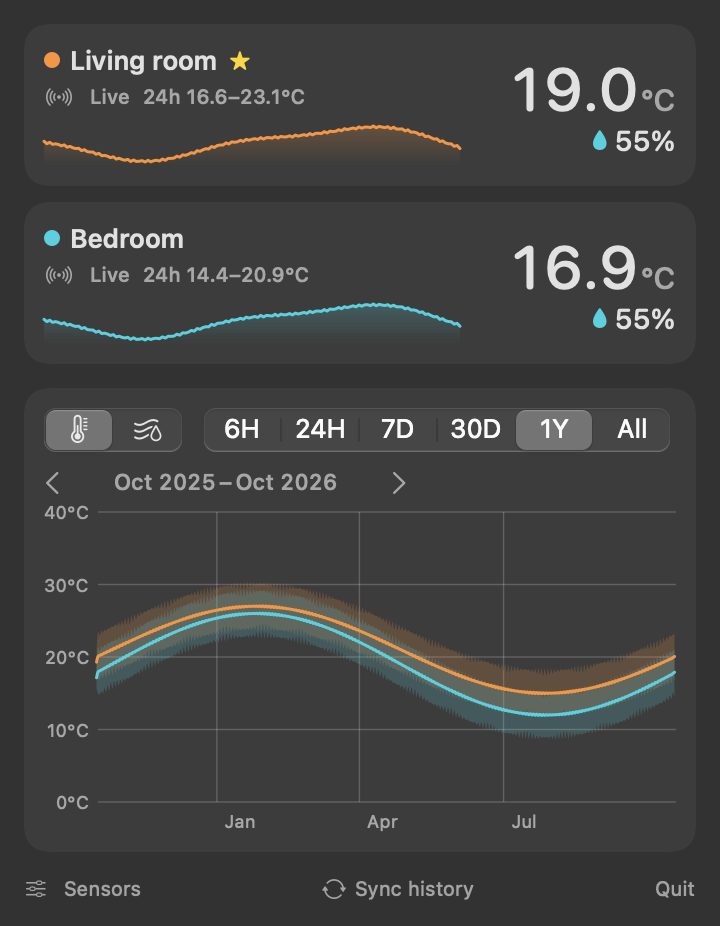
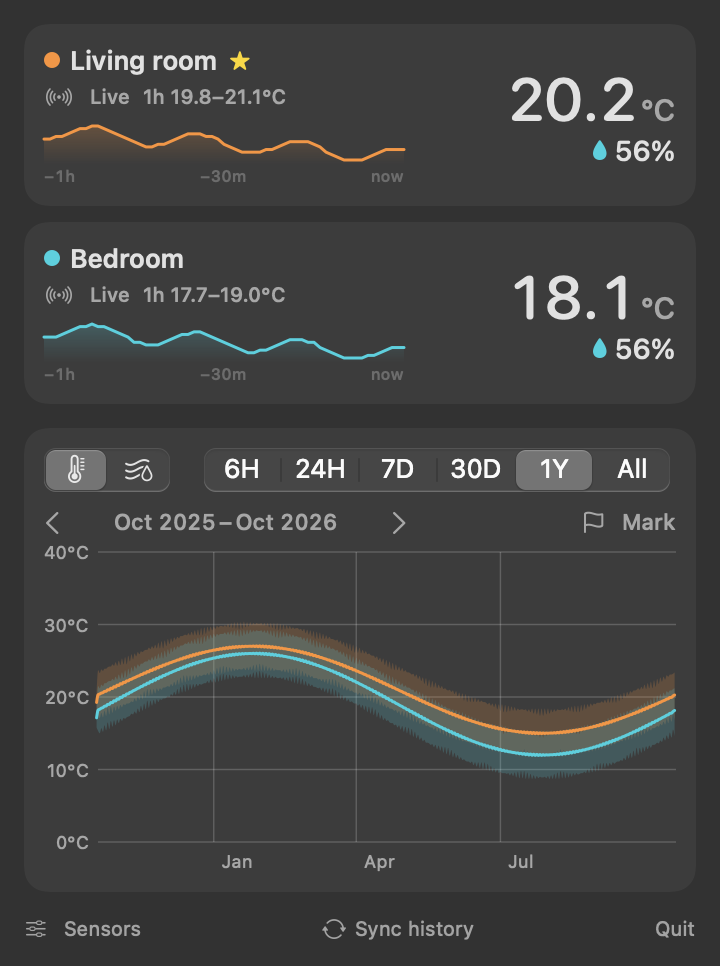
docs: refresh README screenshots and feature notes for 0.4.0

diff --git a/README.md b/README.md
@@ -3,7 +3,7 @@
 A native macOS menu bar app for Bluetooth thermo-hygrometers and Wi-Fi air purifiers. It shows the temperature and humidity of your main sensor in the menu bar (and, if you have one outside, the outdoor sensor next to it), and a click opens every sensor with a chart of its history. It replaces juggling the Govee and ThermoPro phone apps.
 
 <p align="center">
-  <img src="docs/screenshot-dark.png" alt="Sensor Tray popover showing two sensor cards with live temperature, humidity and 24-hour sparklines, above a combined temperature chart" width="360">
+  <img src="docs/screenshot-dark.png" alt="Sensor Tray popover: cards for Living room, Outdoor, Bedroom and an air purifier, each with a one-hour sparkline marked where the windows were opened, above a six-hour temperature chart with the marker and a strip showing each room cooling since then" width="360">
 </p>
 
 ## Supported sensors
@@ -20,10 +20,10 @@ You can add as many sensors of these models as you like and name them.
 ## Features
 
 - **Menu bar**: the main (★) sensor's `25.1°  62%`, dimmed when the reading is more than 10 minutes old.
-- **Indoor vs outdoor**: mark a sensor as outdoor (the tree button in the Sensors window) and the menu bar shows both at a glance. Choose the layout in the Sensors window: **Stacked** (the default and narrowest: indoor on the top line, outdoor below), **Columns** (humidity in small type over each temperature, like a CPU meter) or **Side by side** (full size). Every indoor card in the popover shows how that room compares with outside (`+6.7°C  −19% vs 🌳`: indoor minus outdoor).
-- **Popover**: a card per sensor (temperature, humidity, battery, 24 h min–max and a sparkline) and a combined chart with a temperature/humidity toggle and a hover read-out. Gaps (Mac asleep, sensor out of range) show as breaks in the line, not misleading straight bridges.
+- **Indoor vs outdoor**: mark a sensor as outdoor (the tree button in the Sensors window) and the menu bar shows both at a glance, each dimmed on its own when stale. Pick the layout under **Menu bar** in the Sensors window: **Stacked** (the default and narrowest: indoor on the top line, outdoor below), **Columns** (humidity in small type over each temperature, like a CPU meter) or **Side by side** (full size). Every indoor card shows how that room compares with outside (`+1.6°C  −12% vs 🌳`: indoor minus outdoor).
+- **Popover**: a card per sensor (temperature, humidity, battery, min–max and a sparkline) and a combined chart with a temperature/humidity toggle and a hover read-out. The card sparklines share one time axis and width, so they can be compared straight down the column. They show the last 24 hours by default; choose 15m, 1h, 3h, 6h or 12h under **Card charts** in the Sensors window. Gaps (Mac asleep, sensor out of range) show as breaks in the chart, not misleading straight bridges.
 - **History for as long as you run it**: every minute reading is kept, with no expiry. Choose **6H / 24H / 7D / 30D / 1Y / All**, then step back with **‹ ›**, drag the chart, or swipe sideways on the trackpad to move through time; **Now** jumps back to the present. At 1Y and All, each sensor also gets a shaded daily min–max band, so seasonal changes stand out.
-- **Event markers**: press **Mark** above the chart when something happens (windows opened, heating off) to drop a flag on the timeline. It stays at that moment as the chart moves on, the time after it is shaded, and the card sparklines show it too (they cover the last 24 hours by default; pick 15m, 1h, 3h, 6h or 12h under **Card charts** in the Sensors window), and a strip under the chart shows each sensor's change since then (`Living room 26.4°C → 26.1°C −0.3°C`). Label it with a quick preset or your own words, click any flag to focus it, and hover to see its label. Markers are kept with the history.
+- **Event markers**: press **Mark** above the chart when something happens (windows opened, heating off). A flag stays at that moment on the chart and on every card's sparkline as time moves on, with the time after it shaded. A strip under the chart shows each sensor's change since then (`Living room 26.0°C → 25.4°C −0.6°C`). Label a marker with a preset or your own words, click a flag to focus it, or hover to see its label. Markers are kept with the history.
 - **History backfill**: on launch, on wake, every 6 hours and on demand, the app connects briefly to each sensor and downloads only the stretch of its onboard memory that's missing locally, then disconnects so the phone apps keep working. If a sensor doesn't connect (weak signal), it retries 10 minutes later.
 - **Air purifiers**: Philips Air+ purifiers are read locally over Wi-Fi, without the Philips cloud or your Philips account. A card shows PM2.5 with an air-quality level (Good / Fair / Poor / Very poor), the allergen index, the mode, and filter warnings ("Replace the filter"), and the chart gets a PM2.5 view. It's read-only; Sensor Tray never changes the purifier's settings.
 - **Sensors window**: add nearby sensors (with signal bars, so you can tell which is which), rename, pick each sensor's color (click its dot), reorder, choose the menu bar sensor and the outdoor one, export history as CSV, and remove. It also has a launch-at-login toggle.
@@ -43,7 +43,7 @@ You can add as many sensors of these models as you like and name them.
 </p>
 
 <p align="center">
-  <img src="docs/sensors.png" alt="Sensors window listing configured sensors with rename, star, reorder, export and remove controls, a Nearby section and a Launch at login toggle" width="480">
+  <img src="docs/sensors.png" alt="Sensors window listing configured sensors with outdoor, star, reorder, export and remove controls, a Nearby section, Card charts and Menu bar layout pickers, and a Launch at login toggle" width="480">
 </p>
 
 ## Download & install
